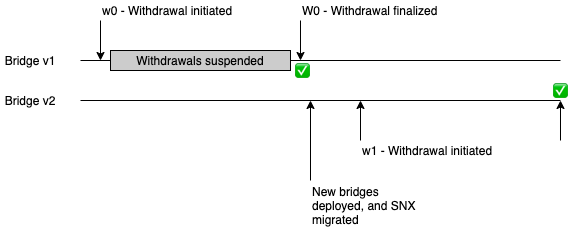
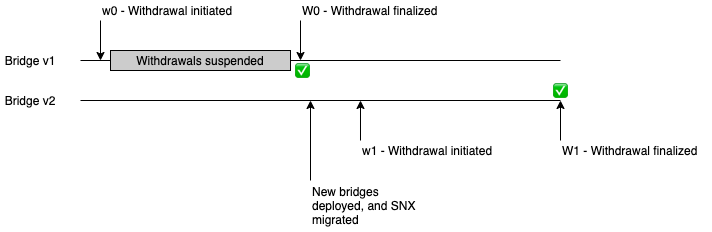
Update SIP

diff --git a/sips/sip-116.md b/sips/sip-116.md
@@ -12,15 +12,15 @@ created: 2021-02-25
 
 ## Simple Summary
 <!--"If you can't explain it simply, you don't understand it well enough." Simply describe the outcome the proposed changes intends to achieve. This should be non-technical and accessible to a casual community member.-->
-Optimism is defining a new standard for deposit/withdrawal bridges between L1 and L2. This standard defines the function names and signatures for depositing tokens into L2, as well as for withdrawing them back to L1. We should update our contracts to adopt this new standard.
+Optimism is defining a new standard for deposit/withdrawal bridges between L1 and L2. This standard defines the function names and signatures for depositing tokens into L2, as well as for withdrawing them back to L1. We should consider updating our contracts to adopt this new standard.
 
 ## Abstract
 <!--A short (~200 word) description of the proposed change, the abstract should clearly describe the proposed change. This is what *will* be done if the SIP is implemented, not *why* it should be done or *how* it will be done. If the SIP proposes deploying a new contract, write, "we propose to deploy a new contract that will do x".-->
-The proposed changes involve renaming a few functions and events in two of our contracts as well as adding minor functionality to them to be able to deposit and withdraw SNX for another address. The contracts will need to be redeployed, and `SynthetixBridgeToOptimism`'s SNX balance will need to be migrated to the new L1 bridge contract.
+The proposed changes involve renaming a few functions and events in two of our contracts as well as adding minor functionality to them to be able to deposit and withdraw SNX for another address. The contracts will need to be redeployed, and `SynthetixBridgeToOptimism`'s SNX balance will need to be migrated to the newly deployed L1 bridge contract.
 
 ## Motivation
 <!--This is the problem statement. This is the *why* of the SIP. It should clearly explain *why* the current state of the protocol is inadequate.  It is critical that you explain *why* the change is needed, if the SIP proposes changing how something is calculated, you must address *why* the current calculation is inaccurate or wrong. This is not the place to describe how the SIP will address the issue!-->
-As Optimism's L2 gains adoption, more and more tokens will begin to move across the layers. One example of this is the official WETH token to be used in place of ETH in Optimism's mainnet, which will comply to the deposit/withdrawal interface standard. Unless these changes are applied, Synthetix's bridges will need to be interacted with in a different way to all the other bridges. Another reason to migrate now is that a migration in the future could involve the migration of a much larger SNX value.
+As Optimism's L2 gains adoption, more and more tokens will begin to move across the layers. One example of this is the official WETH token to be used in place of ETH in Optimism's mainnet, which will comply to the deposit/withdrawal interface standard. Unless these changes are applied, Synthetix's bridges will need to be interacted with in a different way to all the other bridges. Another reason to migrate now is that a migration in the future would involve moving a larget value of SNX.
 
 ## Specification
 <!--The specification should describe the syntax and semantics of any new feature, there are five sections
@@ -33,24 +33,28 @@ As Optimism's L2 gains adoption, more and more tokens will begin to move across 
 
 ### Overview
 <!--This is a high level overview of *how* the SIP will solve the problem. The overview should clearly describe how the new feature will be implemented.-->
-The sources for the L1 and L2 bridges, `SynthetixBridgeToOptimism` and `SynthetixBridgeToBase`, will be updated to conform to Optimism's standard deposit/withdrawal interface. The new code will need to be deployed, and the SNX deposits currently held in the `SynthetixBridgeToOptimism` contract will need to be migrated to the new `SynthetixBridgeToOptimism` contract.
+The sources for the L1 and L2 bridges, namely `SynthetixBridgeToOptimism` and `SynthetixBridgeToBase`, will be updated to conform to the new interface. The new code will need to be deployed, and the SNX deposits currently held in the `SynthetixBridgeToOptimism` contract will need to be migrated to the new `SynthetixBridgeToOptimism` contract.
 
 ### Rationale
 <!--This is where you explain the reasoning behind how you propose to solve the problem. Why did you propose to implement the change in this way, what were the considerations and trade-offs. The rationale fleshes out what motivated the design and why particular design decisions were made. It should describe alternate designs that were considered and related work. The rationale may also provide evidence of consensus within the community, and should discuss important objections or concerns raised during discussion.-->
-First, changes should be made to `SynthetixBridgeToOptimism` and `SynthetixBridgeToBase`. Following that, the corresponding test cases should be updated, and tests should be written to cover new functionality.
+First, changes should be made to `SynthetixBridgeToOptimism` and `SynthetixBridgeToBase`. Following that, the corresponding test cases should be updated, and tests should be written to cover any new functionality.
 
-The two contracts should be deployed on each layer and linked to their corresponding Synthetix instance. Migrating the SNX deposited in `SynthetixBridgeToOptimism` is not only a delicate operation since the contract holds a lot of value, but an asynchronicity problem between L1 and L2, when it comes to withdrawals, needs to be addressed.
+The two contracts should be deployed on each layer and linked to their corresponding Synthetix instance. Migrating the SNX deposited in `SynthetixBridgeToOptimism` is not only a delicate operation since the contract holds a lot of value, but an asynchronicity problem between L1 and L2 regarding withdrawals needs to be addressed.
 
-Withdrawals that were initiated in the original `SynthetixBridgeToBase` up to 7 days before the migration will fail, because by the time they are ready to be finalized on the original `SynthetixBridgeToOptimism`, the contract will no longer be holding the SNX required for the withdrawal. In fact, it would not be holding any SNX at all.
+Withdrawals that were initiated in the original `SynthetixBridgeToBase` up to 7 days before the migration will effectively fail if deposited SNX is migrated immediately, because by the time they are ready to be finalized on the original `SynthetixBridgeToOptimism`, the contract will no longer be holding the SNX required for the withdrawal. In fact, it would not be holding any SNX at all.
 
 Figure 1 - Asynchronous problems with withdrawals during the migration
 
 ![Migration problem](./assets/sip-116/migration_problem.png)
 
 
-As you can see in the diagram, withdrawals initiated on the v1 bridge will not be able to finalize, because the bridge will not have the necessary SNX funds required since the funds were migrated to the v2 bridge at a previous point in time.
+As you can see in the diagram, withdrawals initiated on the v1 bridge will not be able to finalize, because the bridge will not have the necessary SNX funds required, since the funds were migrated to the v2 bridge at a previous point in time.
 
-The diagram is also useful to illustrate how the 5 minute deposit window is not likely to be affected by this as long as the system is suspended for 5 minutes before the migration is executed. Finally, we can also see that withdrawals initiated in the v2 bridge, after the migration, should also not have any problems.
+The diagram is also useful to illustrate how the 5 minute deposit window is not likely to be affected by this as long as the system is suspended for 5 minutes before the migration is executed.
+
+Deposit finalization can be tracked using the [OΞ Transaction Tracker](http://optimism-snx-tracker.surge.sh/?token=SNX).
+
+We can also see that withdrawals initiated in the v2 bridge, after the migration, should also not have any problems.
 
 A naive solution would be to suspend withdrawals for 7 days before the migration:
 
@@ -59,7 +63,9 @@ Figure 2 - Naive solution
 ![Migration naive solution](./assets/sip-116/migration_naive_solution.png)
 
 
-This is of course less than ideal, since there is a way to upgrade the bridge with no withdrawal downtime. This can be achieved by deploying the new bridges and migrating the SNX funds at a later time, when all withdrawals initiated in the v1 bridge have finalized.
+This is of course less than ideal, since we should try to achieve no withdrawal downtime. In fact, this is possible, and can be achieved by deploying the new bridges and migrating the SNX funds at a later time, when all withdrawals initiated in the v1 bridge have finalized.
+
+Withdrawal finalization can be tracked using the OΞ Transaction Tracker.
 
 Figure 3 - Correct solution
 
